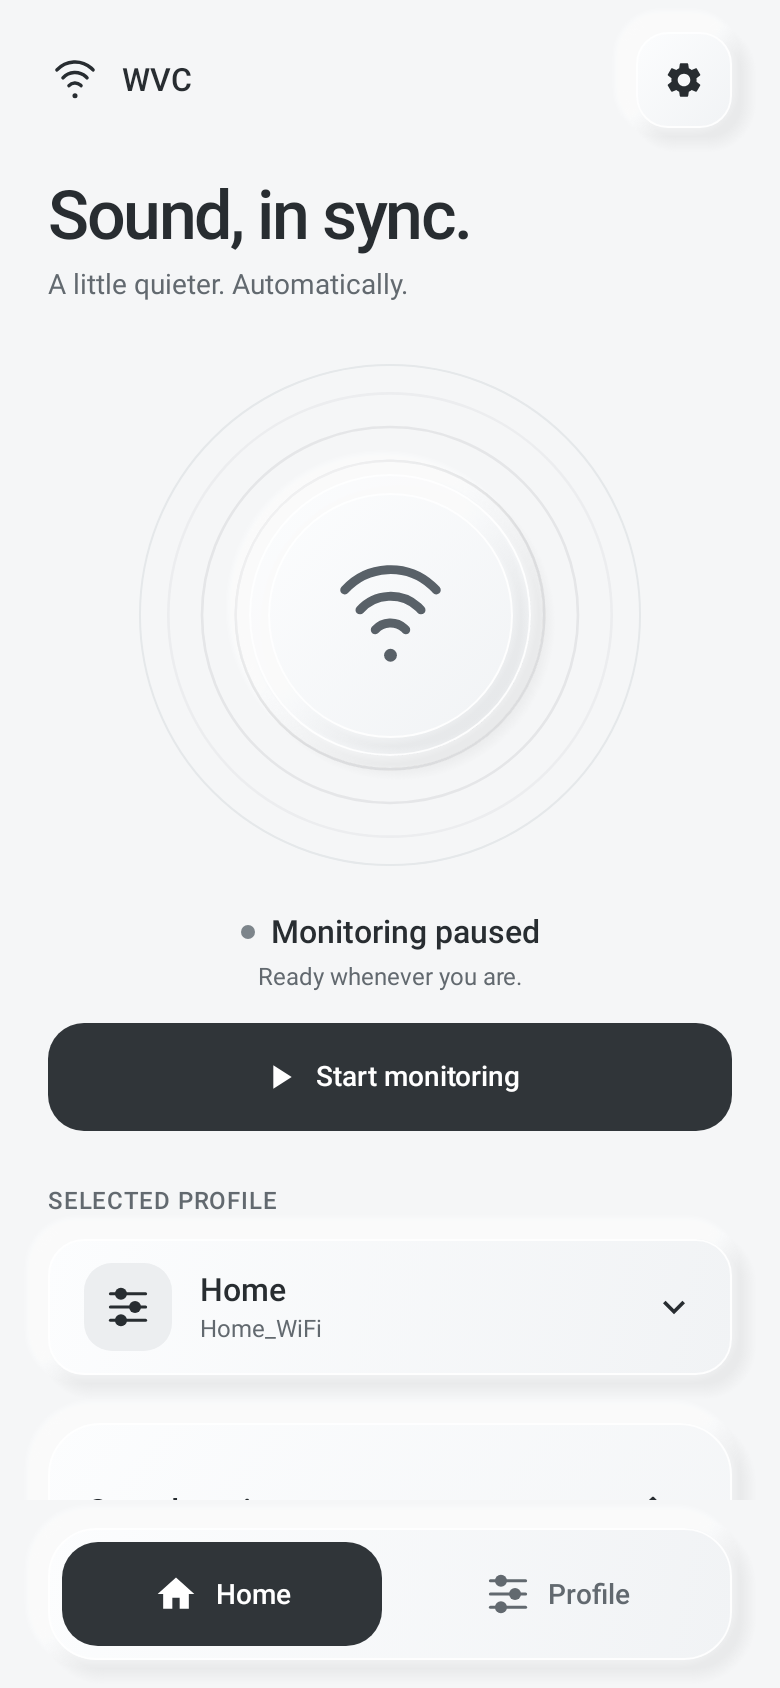
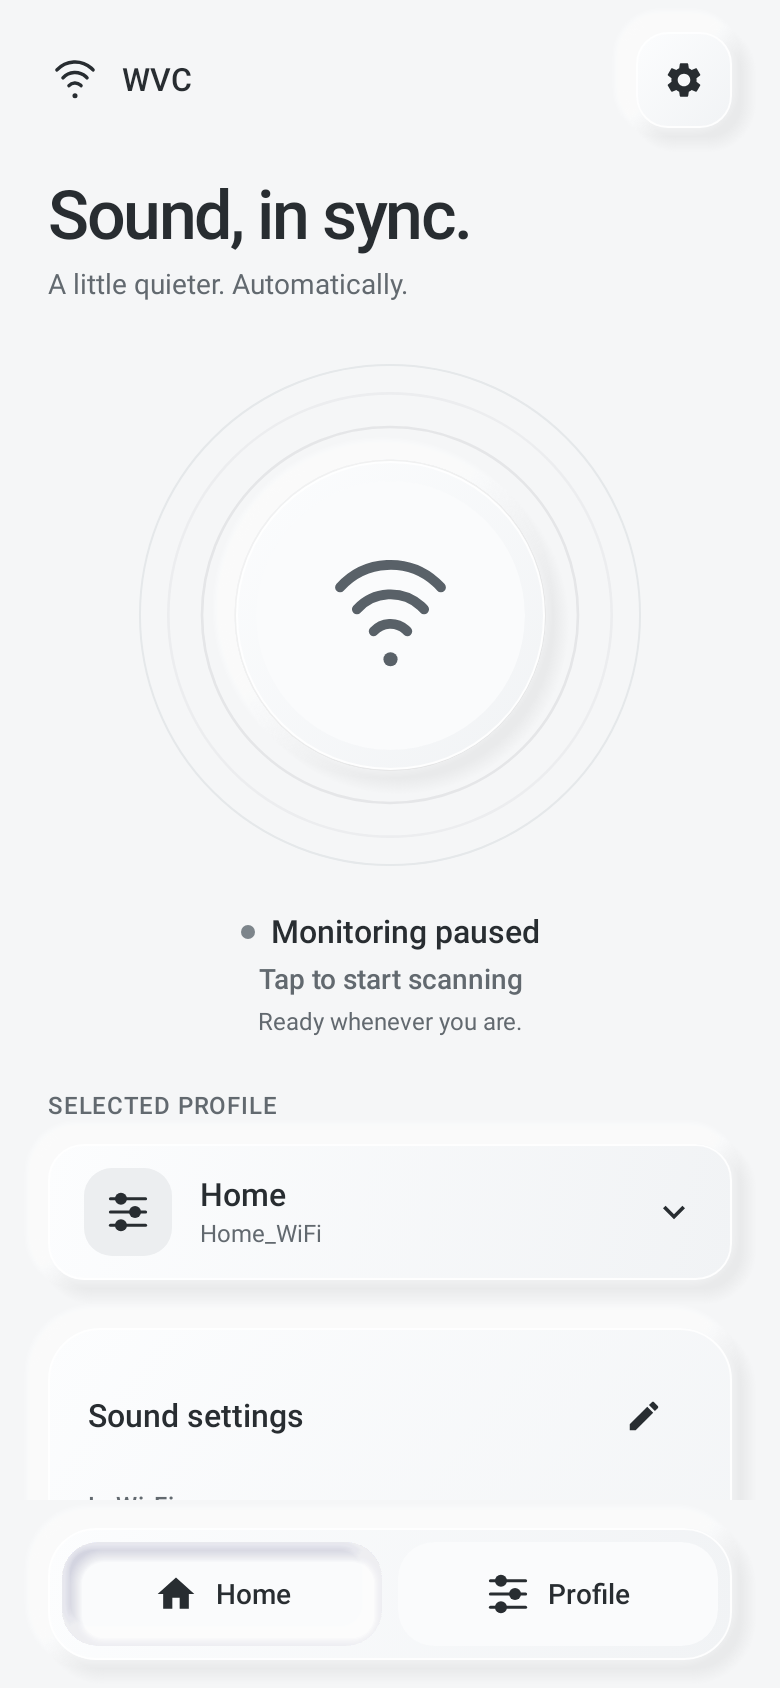
Refresh native previews for the Wi-Fi toggle and recessed tabs

diff --git a/docs/UI_REDESIGN.md b/docs/UI_REDESIGN.md
@@ -99,11 +99,15 @@ profiles. These are not physical-device screenshots.
 
 ## Checks
 
-Run with JDK 21:
+Run the project checks:
 
 ```sh
 bash gradlew :app:testDebugUnitTest :app:lintDebug :app:assembleDebug
 ```
+
+The Wi-Fi toggle and inset tabs passed all 47 tests, debug/release APK builds, and
+lint with no errors on GitHub. The native previews above were checked at phone,
+tablet, and enlarged-text sizes.
 
 The test suite includes notification routing, repeat suppression, permissions,
 confirmed service changes, DND deferral, popup dismissal, and replacement timing.
